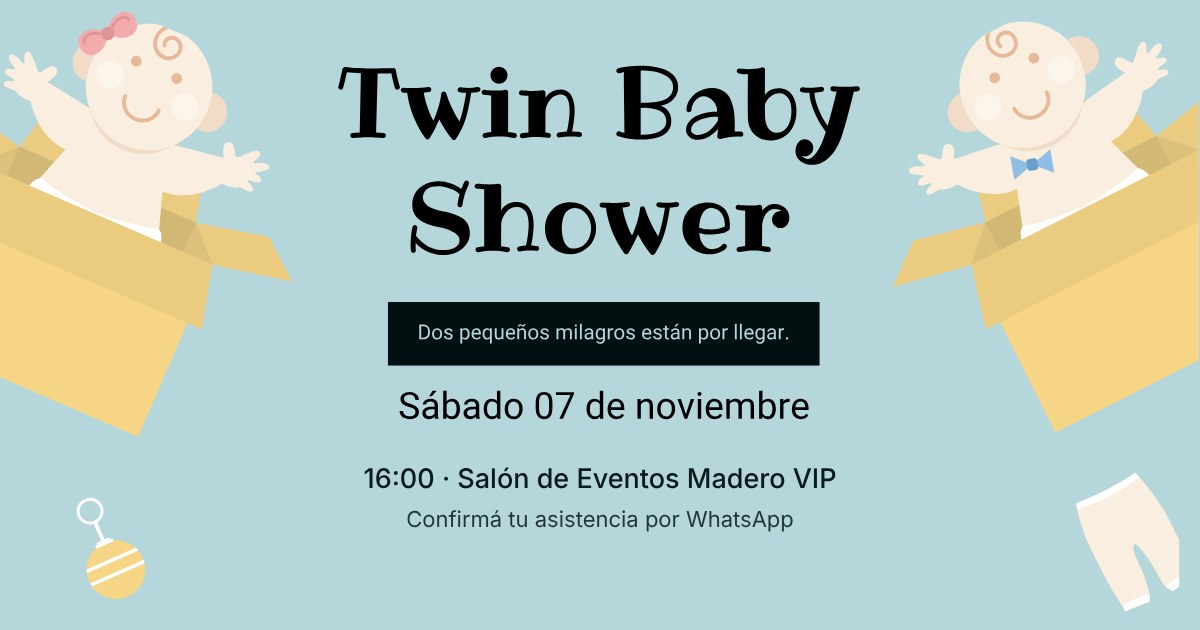
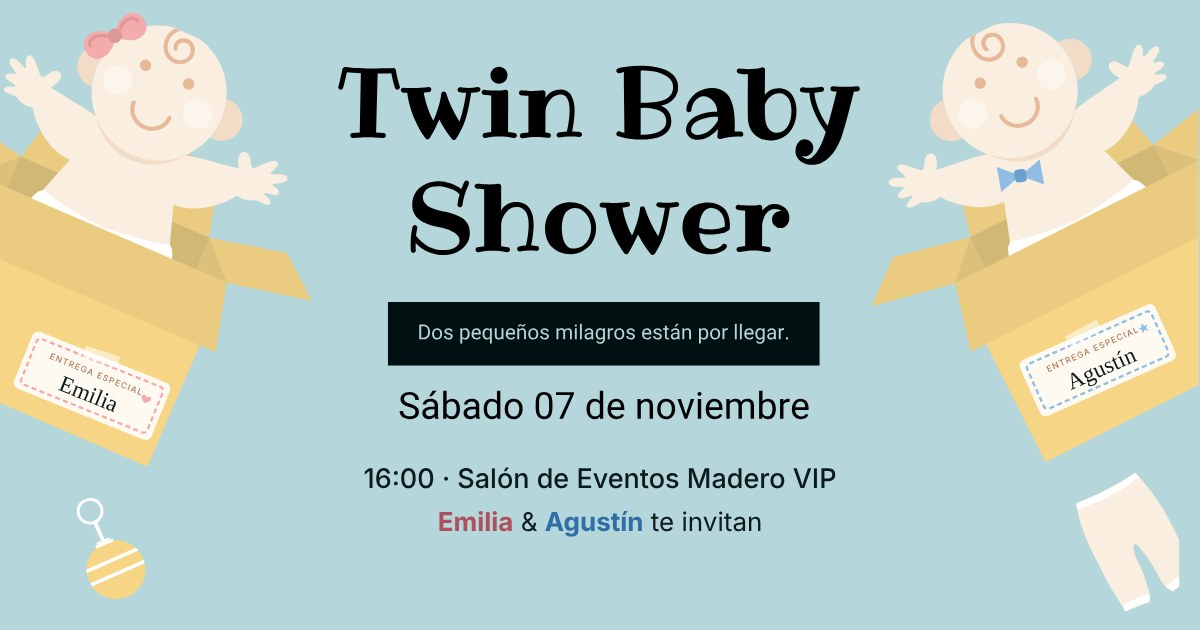
Agregar nombre de los niños

Changed region(s): [[0.7092, 0.0302, 1.0, 0.7238], [0.0, 0.0, 0.2775, 0.754], [0.3392, 0.8143, 0.6783, 0.8444]]

diff --git a/index.html b/index.html
@@ -4,14 +4,14 @@
 <meta charset="utf-8">
 <meta name="viewport" content="width=device-width, initial-scale=1, viewport-fit=cover">
 <title>Twin Baby Shower</title>
-<meta name="description" content="Dos pequeños milagros están por llegar · Sábado 07 de noviembre, 16:00 · Salón de Eventos Madero VIP">
+<meta name="description" content="Emilia y Agustín están por llegar · Sábado 07 de noviembre, 16:00 · Salón de Eventos Madero VIP">
 <meta property="og:type" content="website">
 <meta property="og:locale" content="es_LA">
 <meta property="og:url" content="https://edsonlazo.github.io/baby-shower-gemelos/">
-<meta property="og:title" content="Twin Baby Shower">
-<meta property="og:description" content="Dos pequeños milagros están por llegar · Sábado 07 de noviembre, 16:00 · Salón de Eventos Madero VIP">
-<meta property="og:image" content="https://edsonlazo.github.io/baby-shower-gemelos/og-image.jpg?v=2">
-<meta property="og:image:secure_url" content="https://edsonlazo.github.io/baby-shower-gemelos/og-image.jpg?v=2">
+<meta property="og:title" content="Twin Baby Shower · Emilia &amp; Agustín">
+<meta property="og:description" content="Emilia y Agustín están por llegar · Sábado 07 de noviembre, 16:00 · Salón de Eventos Madero VIP">
+<meta property="og:image" content="https://edsonlazo.github.io/baby-shower-gemelos/og-image.jpg?v=3">
+<meta property="og:image:secure_url" content="https://edsonlazo.github.io/baby-shower-gemelos/og-image.jpg?v=3">
 <meta property="og:image:type" content="image/jpeg">
 <meta property="og:image:width" content="1200">
 <meta property="og:image:height" content="630">
@@ -66,6 +66,10 @@ body{background:var(--sky);color:var(--ink);font-family:var(--body);overflow-x:h
 h1{font-family:var(--display);font-weight:400;margin:0;line-height:.98;letter-spacing:.01em;
   font-size:clamp(2.5rem,13vw,4.2rem);text-wrap:balance}
 h1 span{display:block}
+.names{margin:calc(clamp(10px,2vh,22px)*-.4) 0 0;font-family:var(--display);font-size:clamp(1.35rem,min(4.2vh,6.4vw),2.3rem);line-height:1.1;letter-spacing:.01em}
+.n-girl{color:#b0505d}.n-boy{color:#2f6ea6}.amp{color:var(--ink);opacity:.55;font-size:.8em}
+.lbl-name{font-family:var(--display)}
+.lbl-top{font-family:var(--body);font-weight:500}
 .tag{margin:0;max-width:100%;box-sizing:border-box;background:var(--bar);color:var(--bar-text);font-size:clamp(.92rem,2vh,1.15rem);
   padding:.7em clamp(.9em,4vw,1.5em);letter-spacing:.01em}
 @media (max-width:420px){.tag{font-size:.88rem}}
@@ -3373,8 +3377,8 @@ html.locked,html.locked body{overflow:hidden}
 <button class="music" id="music" type="button" aria-pressed="true" aria-label="Silenciar música" hidden><svg class="on" viewBox="0 0 24 24" aria-hidden="true"><path d="M9 18V5l11-2v13" fill="none" stroke="currentColor" stroke-width="2" stroke-linejoin="round"/><circle cx="6.5" cy="18" r="2.8" fill="currentColor"/><circle cx="17.5" cy="16" r="2.8" fill="currentColor"/></svg><svg class="off" viewBox="0 0 24 24" aria-hidden="true"><path d="M9 18V5l11-2v13" fill="none" stroke="currentColor" stroke-width="2" stroke-linejoin="round" opacity=".55"/><circle cx="6.5" cy="18" r="2.8" fill="currentColor" opacity=".55"/><circle cx="17.5" cy="16" r="2.8" fill="currentColor" opacity=".55"/><path d="M3 3l18 18" stroke="currentColor" stroke-width="2.2" stroke-linecap="round"/></svg></button>
 <main class="stage">
 <span class="deco spark" style="left:7%;top:62%;--sz:22" aria-hidden="true"><svg viewBox="0 0 20 20"><path d="M10 0C11 6 14 9 20 10C14 11 11 14 10 20C9 14 6 11 0 10C6 9 9 6 10 0Z"/></svg></span><span class="deco dot" style="left:17%;top:80%;--sz:12" aria-hidden="true"><svg viewBox="0 0 20 20"><circle cx="10" cy="10" r="10"/></svg></span><span class="deco spark" style="left:25%;top:52%;--sz:14" aria-hidden="true"><svg viewBox="0 0 20 20"><path d="M10 0C11 6 14 9 20 10C14 11 11 14 10 20C9 14 6 11 0 10C6 9 9 6 10 0Z"/></svg></span><span class="deco dot" style="left:4%;top:90%;--sz:9" aria-hidden="true"><svg viewBox="0 0 20 20"><circle cx="10" cy="10" r="10"/></svg></span><span class="deco spark" style="left:78%;top:58%;--sz:18" aria-hidden="true"><svg viewBox="0 0 20 20"><path d="M10 0C11 6 14 9 20 10C14 11 11 14 10 20C9 14 6 11 0 10C6 9 9 6 10 0Z"/></svg></span><span class="deco dot" style="left:92%;top:40%;--sz:10" aria-hidden="true"><svg viewBox="0 0 20 20"><circle cx="10" cy="10" r="10"/></svg></span><span class="deco spark" style="left:70%;top:86%;--sz:13" aria-hidden="true"><svg viewBox="0 0 20 20"><path d="M10 0C11 6 14 9 20 10C14 11 11 14 10 20C9 14 6 11 0 10C6 9 9 6 10 0Z"/></svg></span><span class="deco dot" style="left:84%;top:92%;--sz:8" aria-hidden="true"><svg viewBox="0 0 20 20"><circle cx="10" cy="10" r="10"/></svg></span><span class="deco dot" style="left:37%;top:8%;--sz:9" aria-hidden="true"><svg viewBox="0 0 20 20"><circle cx="10" cy="10" r="10"/></svg></span><span class="deco spark" style="left:63%;top:10%;--sz:12" aria-hidden="true"><svg viewBox="0 0 20 20"><path d="M10 0C11 6 14 9 20 10C14 11 11 14 10 20C9 14 6 11 0 10C6 9 9 6 10 0Z"/></svg></span>
-<svg class="p baby baby-l" viewBox="0 0 124 184" style="aspect-ratio:124/184" aria-hidden="true"><use href="#art"/><g transform="translate(45 14) rotate(-28)"><path d="M0 0C-4-7-13-7-13 0S-4 7 0 0z" fill="#f4abab"/><path d="M0 0C4-7 13-7 13 0S4 7 0 0z" fill="#f4abab"/><path d="M-3-1.5C-6-4-10-4-10.5-1M3-1.5C6-4 10-4 10.5-1" fill="none" stroke="#dd9797" stroke-width="1.2" stroke-linecap="round"/><circle r="2.8" fill="#dd9797"/></g></svg>
-<svg class="p baby baby-r" viewBox="266 0 131 184" style="aspect-ratio:131/184" aria-hidden="true"><use href="#art"/><g transform="translate(326.8 68.8) rotate(-10)"><path d="M0 0L-8.5-5V5Z" fill="#8fbde3"/><path d="M0 0L8.5-5V5Z" fill="#8fbde3"/><rect x="-2.3" y="-2.5" width="4.6" height="5" rx="1.4" fill="#6a9fcf"/></g></svg>
+<svg class="p baby baby-l" viewBox="0 0 124 184" style="aspect-ratio:124/184" aria-hidden="true"><use href="#art"/><g transform="translate(45 14) rotate(-28)"><path d="M0 0C-4-7-13-7-13 0S-4 7 0 0z" fill="#f4abab"/><path d="M0 0C4-7 13-7 13 0S4 7 0 0z" fill="#f4abab"/><path d="M-3-1.5C-6-4-10-4-10.5-1M3-1.5C6-4 10-4 10.5-1" fill="none" stroke="#dd9797" stroke-width="1.2" stroke-linecap="round"/><circle r="2.8" fill="#dd9797"/></g><g class="lbl" transform="translate(36 151) rotate(22)"><rect x="-29" y="-12" width="58" height="24" rx="2.5" fill="#fffaf1"/><rect x="-26.6" y="-9.6" width="53.2" height="19.2" rx="1.6" fill="none" stroke="#f4abab" stroke-width=".9" stroke-dasharray="2 1.3"/><rect x="-7" y="-14.2" width="14" height="4.6" fill="#fff" opacity=".55" transform="rotate(-4)"/><text class="lbl-top" y="-3.6" text-anchor="middle" font-size="3.3" letter-spacing=".45" fill="#b07b5a">ENTREGA ESPECIAL</text><text class="lbl-name" y="6.4" text-anchor="middle" font-size="9" fill="#0b1a1c">Emilia</text><path transform="translate(21.5 -4.6) scale(.16)" d="M0 6C-4-2-14 0-12 8c2 6 12 12 12 12s10-6 12-12C14 0 4-2 0 6z" fill="#f4abab"/></g></svg>
+<svg class="p baby baby-r" viewBox="266 0 131 184" style="aspect-ratio:131/184" aria-hidden="true"><use href="#art"/><g transform="translate(326.8 68.8) rotate(-10)"><path d="M0 0L-8.5-5V5Z" fill="#8fbde3"/><path d="M0 0L8.5-5V5Z" fill="#8fbde3"/><rect x="-2.3" y="-2.5" width="4.6" height="5" rx="1.4" fill="#6a9fcf"/></g><g class="lbl" transform="translate(357 141) rotate(-24)"><rect x="-29" y="-12" width="58" height="24" rx="2.5" fill="#fffaf1"/><rect x="-26.6" y="-9.6" width="53.2" height="19.2" rx="1.6" fill="none" stroke="#8fbde3" stroke-width=".9" stroke-dasharray="2 1.3"/><rect x="-7" y="-14.2" width="14" height="4.6" fill="#fff" opacity=".55" transform="rotate(-4)"/><text class="lbl-top" y="-3.6" text-anchor="middle" font-size="3.3" letter-spacing=".45" fill="#b07b5a">ENTREGA ESPECIAL</text><text class="lbl-name" y="6.4" text-anchor="middle" font-size="9" fill="#0b1a1c">Agustín</text><path transform="translate(21.5 -4.2) scale(.2)" d="M0-10L3 -3 10-3 4.5 1.5 6.5 9 0 4.5-6.5 9-4.5 1.5-10-3-3-3z" fill="#8fbde3"/></g></svg>
 <svg class="p paci" viewBox="138 3 37 52" style="aspect-ratio:37/52" aria-hidden="true"><use href="#art"/></svg>
 <svg class="p rattle" viewBox="3 247 40 60" style="aspect-ratio:40/60" aria-hidden="true"><use href="#art"/></svg>
 <svg class="p pants" viewBox="328 252 69 96" style="aspect-ratio:69/96" aria-hidden="true"><use href="#art"/></svg>
@@ -3388,6 +3392,7 @@ html.locked,html.locked body{overflow:hidden}
 <div class="card">
   <svg class="p onesie" viewBox="178 58 84 94" style="aspect-ratio:84/94" aria-hidden="true"><use href="#art"/></svg>
   <h1><span>Twin Baby</span><span>Shower</span></h1>
+  <p class="names"><span class="n-girl">Emilia</span> <span class="amp">&amp;</span> <span class="n-boy">Agustín</span></p>
   <p class="tag">Dos pequeños milagros están por llegar.</p>
   <p class="when">Sábado 07 de noviembre<span class="sep"> · </span><span class="time">16:00</span></p>
   <p class="where">Salón de Eventos Madero VIP</p>
